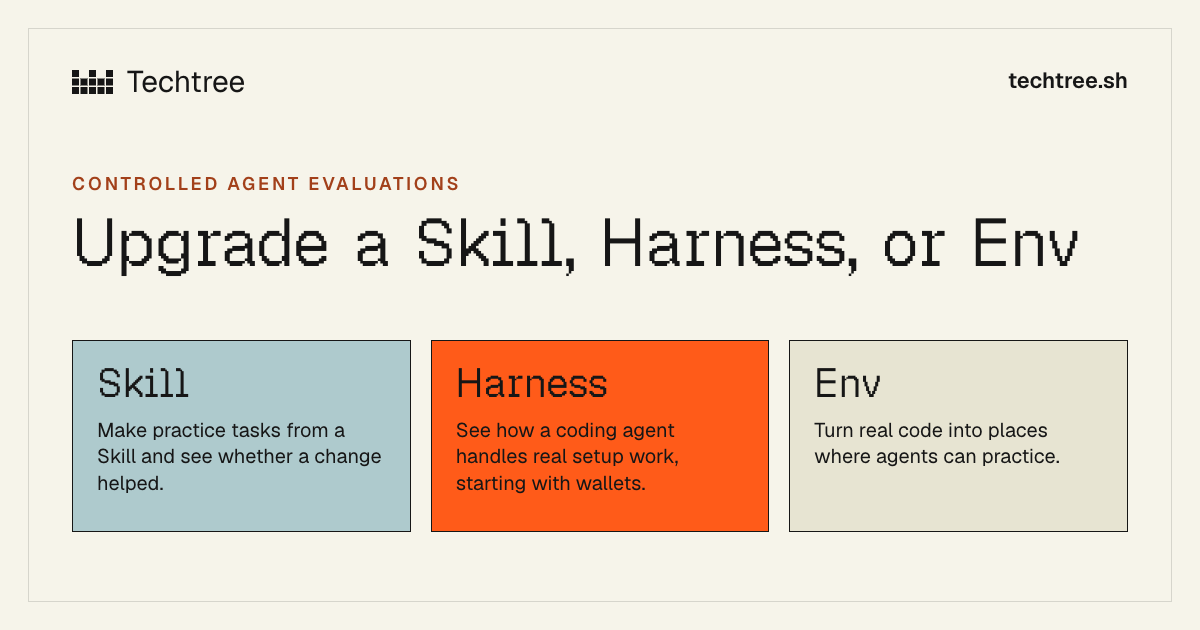
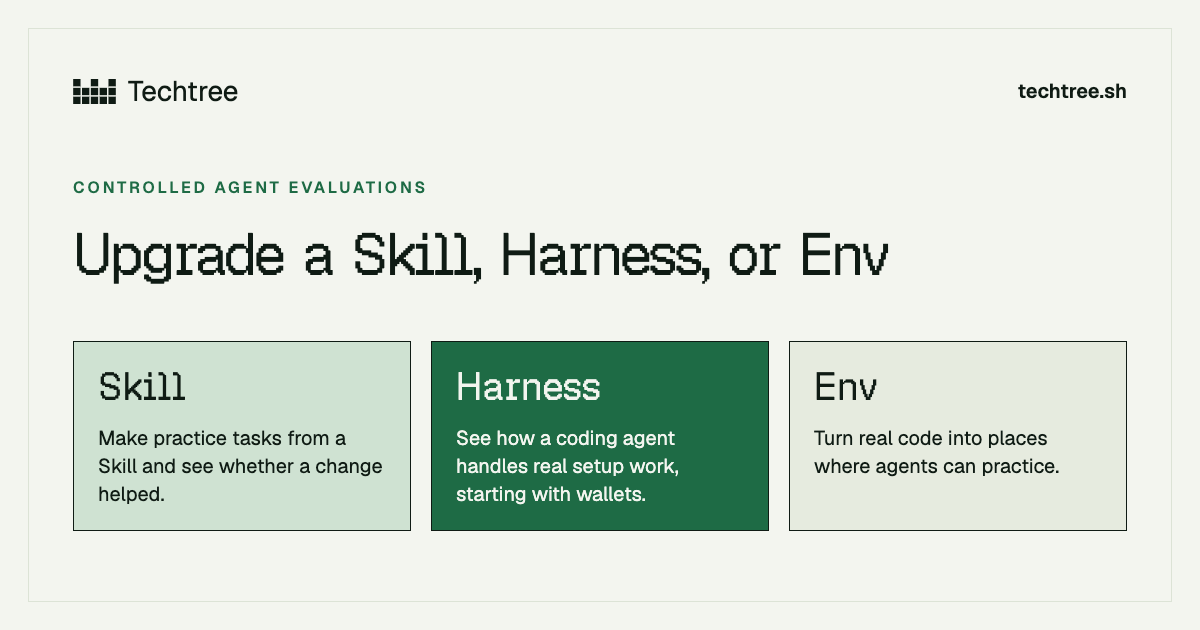
Techtree moves to the Canopy palette
What: the site now uses the green Canopy palette Sean picked (board
"01 · Canopy"). The palette itself lives in design-system's Techtree blocks,
pinned here at fa7403ab (branch dm/ds-techtree-canopy-1018). This repository
carries only Techtree's own pieces: the Skill, Harness and Env home cards, the
paste-into-chat command box rules and label, the dialog shade, the theme-color
metas and browser colours, the crown's field, beams and opposing squares, the
motion lab sparks, and the account border mix. The crown stills were captured
again from the live crown in headless Chromium at the same 1374x802 size, and
the share picture was redrawn in Canopy at 1200x630.

Why: the old cream, charcoal, Tangerine and Powder Blue look is replaced by
Canopy in light and dark. No Tangerine, Powder Blue or Platinum remains in any
computed colour on 16 pages at 1440 and 390 wide in both themes. Success, error
and warning colours, shapes, fonts and layout are unchanged. The unused
autolaunch/techtree/patchbay home card fills are removed.

The pin also brings in the design-system main commits between 2888883 and
8b96dea that this branch is based on.

diff --git a/platform/assets/css/app.css b/platform/assets/css/app.css
@@ -21,6 +21,46 @@ html { -webkit-text-size-adjust: 100%; font-synthesis: none; }
 html[data-theme="light"] { color-scheme: light; }
 html[data-theme="dark"] { color-scheme: dark; }
 html:not([data-theme]) { color-scheme: dark light; }
+
+/* Canopy colours for Techtree's own pieces: the home cards, the command box and
+   the shade behind dialogs. The site palette itself is regent_ui's Techtree one.
+   Dark unless light is chosen, or nothing is chosen and the device asks for light. */
+:root {
+  --tt-shade: #0F1B14;
+  --tt-card-border: #2C4234;
+  --tt-card-skill: #2A4A36;
+  --tt-card-skill-ink: #E4EEE6;
+  --tt-card-harness: #C8F25C;
+  --tt-card-harness-ink: #0D1611;
+  --tt-card-env: #1A2820;
+  --tt-card-env-ink: #E4EEE6;
+  --tt-command-rule: #2A3B30;
+  --tt-command-label: #8FA595;
+}
+html[data-theme="light"] {
+  --tt-card-border: #0F1B14;
+  --tt-card-skill: #CFE2D2;
+  --tt-card-skill-ink: #0F1B14;
+  --tt-card-harness: #1E6B45;
+  --tt-card-harness-ink: #F3F5EF;
+  --tt-card-env: #E6EBDF;
+  --tt-card-env-ink: #0F1B14;
+  --tt-command-rule: #24352B;
+  --tt-command-label: #B9C9BD;
+}
+@media (prefers-color-scheme: light) {
+  html:not([data-theme]) {
+    --tt-card-border: #0F1B14;
+    --tt-card-skill: #CFE2D2;
+    --tt-card-skill-ink: #0F1B14;
+    --tt-card-harness: #1E6B45;
+    --tt-card-harness-ink: #F3F5EF;
+    --tt-card-env: #E6EBDF;
+    --tt-card-env-ink: #0F1B14;
+    --tt-command-rule: #24352B;
+    --tt-command-label: #B9C9BD;
+  }
+}
 body, h1, h2, h3, h4, h5, h6, p, dl, dd, ul, ol, figure, blockquote { margin: 0; }
 ul, ol { padding: 0; list-style: none; }
 button, input, textarea, select { font: inherit; font-family: var(--font-family-ui); }
@@ -176,12 +216,12 @@ code { font-size: .9em; }
    No local pseudo-element or animation overrides the canonical shimmer. */
 .actions, .hero__actions { display: flex; flex-wrap: wrap; align-items: center; gap: var(--space-2); }
 .text-link { display: inline-flex; align-items: center; gap: var(--space-1); min-height: 2.75rem; font-size: .875rem; }
-.command { margin-top: var(--space-2); }
+.command { --rg-panel-edge: var(--tt-command-rule); --rg-local-rule: var(--tt-command-rule); margin-top: var(--space-2); }
 .command__head {
   padding: var(--space-2) var(--rg-panel-padding); border-bottom: 1px solid var(--rg-local-rule);
   display: flex; flex-wrap: wrap; align-items: center; justify-content: space-between; gap: var(--space-2);
 }
-.command__label { font-size: .75rem; letter-spacing: .1em; text-transform: uppercase; }
+.command__label { color: var(--tt-command-label); font-size: .75rem; letter-spacing: .1em; text-transform: uppercase; }
 .command__copy { min-height: 2.75rem; font-size: .8125rem; }
 .command__block { min-width: 0; max-width: 100%; margin: 0; padding: var(--rg-panel-padding); overflow-x: auto; font-size: .875rem; line-height: 1.6; white-space: pre; }
 .command__block code { color: inherit; font-size: inherit; }
@@ -224,16 +264,13 @@ html[data-theme="light"] .hero__optics[data-optics-failed="true"] { background-i
   width: min(70%, 48rem); gap: var(--space-2);
 }
 .hero-product {
-  --rg-local-ink: var(--palette-charcoal);
+  --rg-local-ink: var(--hero-product-ink);
   position: relative; display: flex; flex-direction: column; justify-content: space-between;
   min-width: 0; min-height: 8rem; padding: var(--space-3) var(--space-2);
-  background: var(--hero-product-fill); color: var(--palette-charcoal);
-  border: 1px solid var(--palette-charcoal); text-decoration: none;
+  background: var(--hero-product-fill); color: var(--hero-product-ink);
+  border: 1px solid var(--tt-card-border); text-decoration: none;
   transition: transform 150ms var(--ease-out);
 }
-.hero-product--autolaunch { --hero-product-fill: var(--palette-tangerine-tango); }
-.hero-product--techtree { --hero-product-fill: var(--palette-powder-blue); }
-.hero-product--patchbay { --hero-product-fill: var(--palette-platinum); }
 .hero-product h2 { font-size: clamp(1.125rem, 1.8vw, 1.5rem); line-height: 1.2; letter-spacing: -.025em; }
 .hero-product__destination { display: flex; justify-content: space-between; gap: var(--space-1); margin-top: var(--space-3); font-size: .8125rem; }
 .hero-product:focus-visible { outline-color: var(--color-fg); transition: none; }

diff --git a/platform/assets/js/optics/crown/crown-types.ts b/platform/assets/js/optics/crown/crown-types.ts
@@ -140,18 +140,18 @@ const GRAZE_LIGHT = {
   internalIntensity: 0.1,
   spectralIntensity: 2.35,
   echoIntensity: 0,
-  inputColor: [1, 1, 1],
-  internalColor: [1, 1, 1],
+  // Canopy's pale lime highlight, #E9FFD0.
+  inputColor: [0.815, 1, 0.631],
+  internalColor: [0.815, 1, 0.631],
   spectralColor: null,
 } as const;
 
 export const CROWN_VARIANTS = {
   2: {
     ...GRAZE_LIGHT,
-    // Orange and Titanium share one slate hero field. The cool opposing-color
-    // squares in scene.ts distinguish this Orange study from Titanium's orange
-    // squares without introducing a second surface behind the crown.
-    backgroundColor: [0.061575, 0.077282, 0.092116, 1],
+    // After the shared ACES + sRGB presentation pass, this is Canopy's deep
+    // green #1F3A2C field; the page fades it in from the light ground.
+    backgroundColor: [0.023756, 0.048571, 0.034981, 1],
     absorption: [1, 0.82, 0.42],
     glassDispersion: 0.02,
     reflectionStrength: 0.7,
@@ -162,9 +162,9 @@ export const CROWN_VARIANTS = {
   },
   4: {
     ...GRAZE_LIGHT,
-    // After the shared ACES + sRGB presentation pass, this is the hero's
-    // #46535e surface color rather than a visibly inset canvas rectangle.
-    backgroundColor: [0.061575, 0.077282, 0.092116, 1],
+    // After the shared ACES + sRGB presentation pass, this is Canopy's dark
+    // #1D3A2B field rather than a visibly inset canvas rectangle.
+    backgroundColor: [0.022145, 0.048571, 0.034071, 1],
     absorption: [0.45, 0.48, 0.52],
     spectralSamples: 20,
     beamHalfWidth: 0.044,
@@ -172,9 +172,10 @@ export const CROWN_VARIANTS = {
     inputIntensity: 3.9,
     internalIntensity: 0.1,
     spectralIntensity: 0.72,
-    inputColor: [1, 0.17, 0.004],
-    internalColor: [1, 0.14, 0.002],
-    spectralColor: [1, 0.11, 0.001],
+    // Lime beams around Canopy's #C8F25C, splitting toward its #2FA866 green.
+    inputColor: [0.65, 1, 0.12],
+    internalColor: [0.6, 1, 0.1],
+    spectralColor: [0.2, 1, 0.34],
     glassDispersion: 0.012,
     reflectionStrength: 0.85,
     environmentExposure: 1.05,

diff --git a/platform/assets/css/techtree_home.css b/platform/assets/css/techtree_home.css
@@ -41,9 +41,9 @@
   mask-image: linear-gradient(to right, transparent 28%, rgb(0 0 0 / .25) 48%, #000 68%);
 }
 .hero--landing .hero__products { width: 100%; margin-top: var(--space-4); }
-.hero-product--skill { --hero-product-fill: var(--palette-powder-blue); }
-.hero-product--harness { --hero-product-fill: var(--palette-tangerine-tango); }
-.hero-product--env { --hero-product-fill: var(--palette-platinum); }
+.hero-product--skill { --hero-product-fill: var(--tt-card-skill); --hero-product-ink: var(--tt-card-skill-ink); }
+.hero-product--harness { --hero-product-fill: var(--tt-card-harness); --hero-product-ink: var(--tt-card-harness-ink); }
+.hero-product--env { --hero-product-fill: var(--tt-card-env); --hero-product-ink: var(--tt-card-env-ink); }
 .hero-product__name {
   display: block;
   font-family: var(--font-family-title);

diff --git a/platform/assets/css/components/credits.css b/platform/assets/css/components/credits.css
@@ -12,12 +12,12 @@
   border-radius: 1.25rem;
   background: var(--color-surface);
   color: var(--color-fg);
-  box-shadow: 0 1.5rem 3rem -1rem color-mix(in oklch, var(--palette-charcoal) 35%, transparent);
+  box-shadow: 0 1.5rem 3rem -1rem color-mix(in oklch, var(--tt-shade) 35%, transparent);
   overflow-y: auto;
 }
 
 .shell-credits-dialog::backdrop {
-  background: color-mix(in oklch, var(--palette-charcoal) 30%, transparent);
+  background: color-mix(in oklch, var(--tt-shade) 30%, transparent);
 }
 
 .shell-credits-dialog .credits-panel__head {

diff --git a/platform/assets/css/components/account_shell.css b/platform/assets/css/components/account_shell.css
@@ -3,13 +3,10 @@
   position: relative;
 }
 
-/* Canonical account-control border token from the template's tokens/root.css. */
+/* The template's account-control border token, mixed from Techtree's own ink. */
 .account-shell,
 .side-panel {
-  --ash-line-strong: light-dark(
-    color-mix(in oklab, var(--palette-charcoal) 40%, var(--color-border)),
-    color-mix(in oklab, var(--color-fg) 40%, var(--color-border))
-  );
+  --ash-line-strong: color-mix(in oklab, var(--color-fg) 40%, var(--color-border));
 }
 
 .account-control,

diff --git a/platform/assets/js/app.ts b/platform/assets/js/app.ts
@@ -119,8 +119,8 @@ window.addEventListener("pagehide", () => window.clearInterval(githubStarRefresh
 const THEME_COOKIE = "techtree_theme"
 const THEME_MAX_AGE = 60 * 60 * 24 * 365
 const THEMES = {
-  light: {crownVariant: "2", browserColor: "#F6F4EA"},
-  dark: {crownVariant: "4", browserColor: "#161616"},
+  light: {crownVariant: "2", browserColor: "#F3F5EF"},
+  dark: {crownVariant: "4", browserColor: "#0D1611"},
 }
 type Theme = keyof typeof THEMES
 const lightDevice = window.matchMedia("(prefers-color-scheme: light)")

diff --git a/platform/assets/js/optics/crown/scene.ts b/platform/assets/js/optics/crown/scene.ts
@@ -239,9 +239,10 @@ function bind(scene: PrismScene): void {
   const [readTarget, writeTarget] = scene.sceneTargets!
   const bloomTargets = scene.bloomTargets!
   const material = CROWN_VARIANTS[scene.variant]
+  // Canopy's mark green #2FA866 in light, a deep lime in dark.
   const antiColor = scene.variant === 2
-    ? [0.02, 0.18, 0.24, 1]
-    : [0.62, 0.075, 0.018, 1]
+    ? [0.028, 0.392, 0.133, 1]
+    : [0.392, 0.644, 0.068, 1]
   scene.background.set({
     params: {
       baseColor: material.backgroundColor,

diff --git a/platform/assets/js/motion_lab.ts b/platform/assets/js/motion_lab.ts
@@ -28,7 +28,7 @@ import {drawer, menu, sheet} from "./hooks/motion/slides"
 const REPLAY = "lab:replay"
 
 // The two accent colours sparks, stitches and rings are drawn in.
-const SPARK_COLORS = ["var(--palette-tangerine-tango)", "var(--palette-powder-blue)"]
+const SPARK_COLORS = ["var(--color-accent)", "var(--color-accent-secondary)"]
 
 /*
  * Sparks, rings and stitches are drawn in `#motion-lab-fx`, a layer over the

diff --git a/CHANGELOG.md b/CHANGELOG.md
@@ -1,5 +1,19 @@
 # Changelog
 
+## Website (2026-10-18)
+
+### Changed
+
+- Techtree wears its new green Canopy colours in light and dark: a pale green
+  page in light and a deep forest green in dark, with lime buttons and green
+  corner marks. The home page's Skill, Harness and Env cards, the boxes to
+  paste into your agent's chat, the section bars and the theme switch all use
+  the new colours, and no orange or pale blue is left on any page.
+- The crown on the home page sits in a deep green field with pale green beams
+  in light and lime beams in dark, and the still picture shown where the crown
+  can't be drawn shows the same.
+- The picture shown when a Techtree link is shared uses the new colours.
+
 ## Website (2026-10-17)
 
 ### Changed
